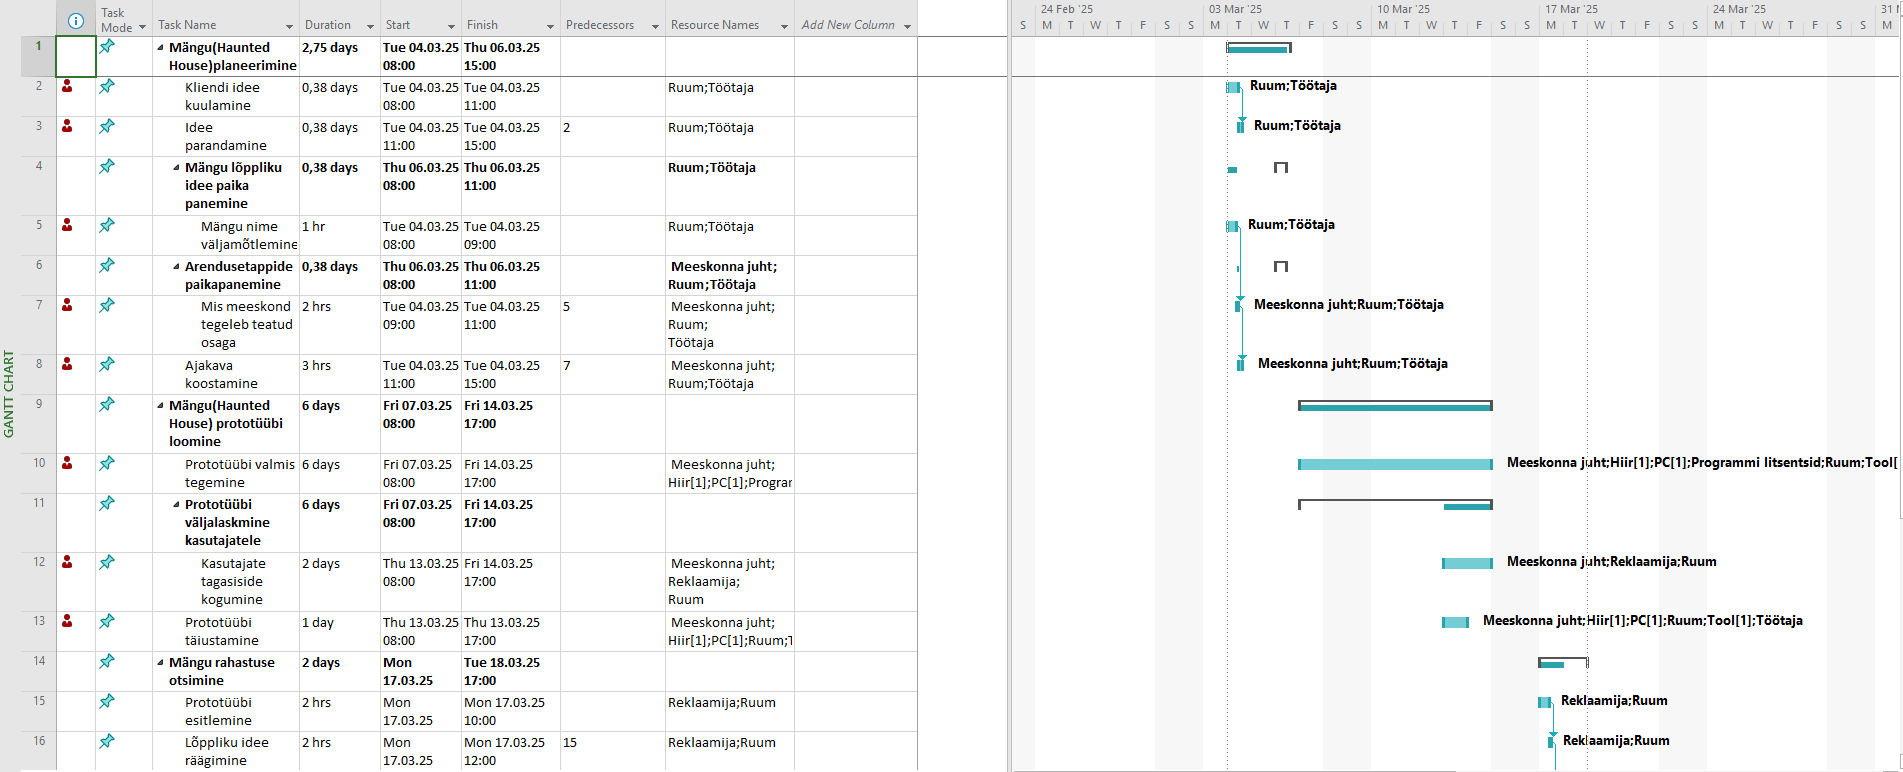
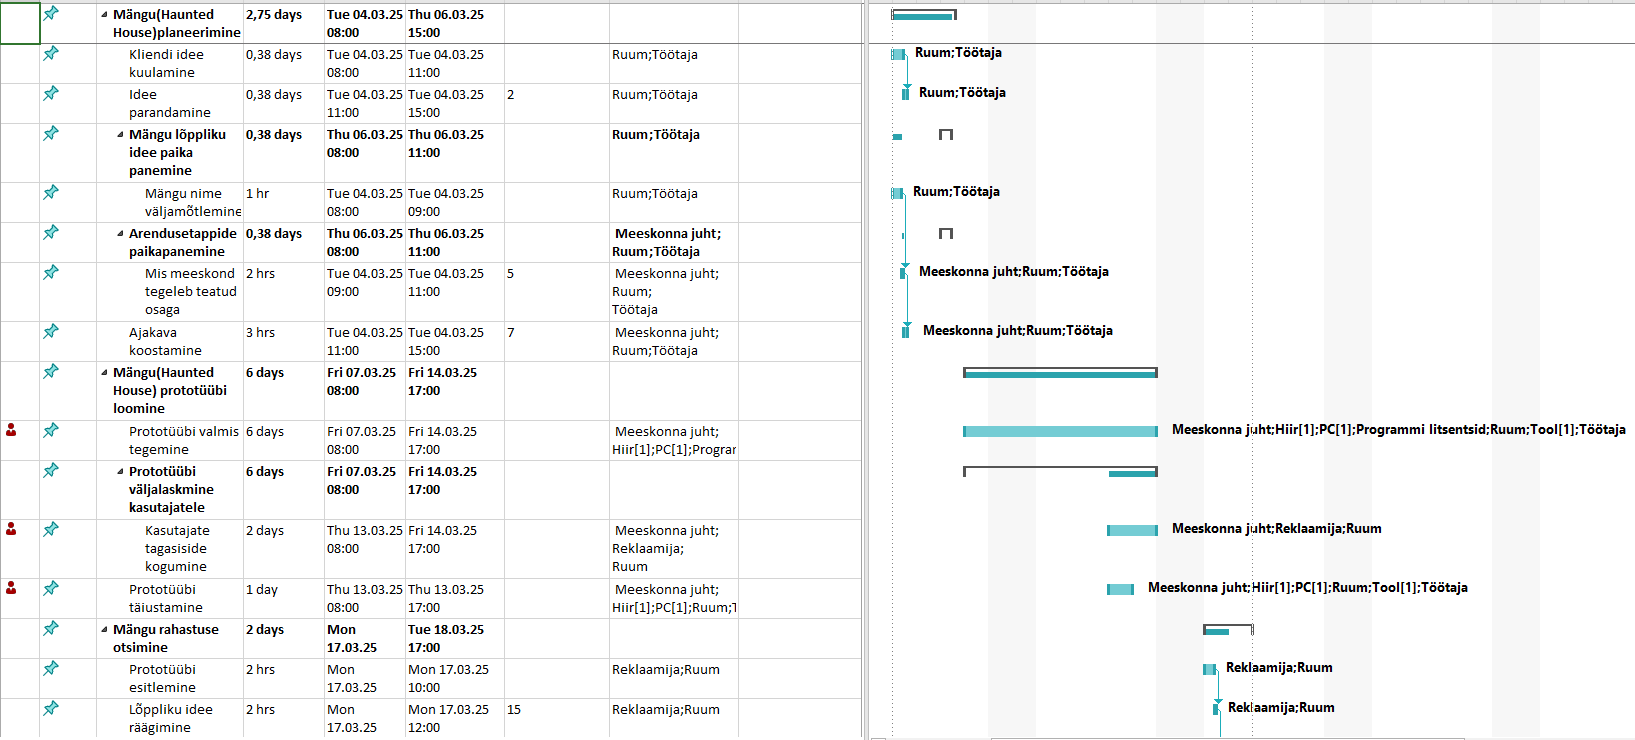
e
e

diff --git a/MSProject/MS/Diagramm.html b/MSProject/MS/Diagramm.html
@@ -8,6 +8,6 @@
 </head>
 <body>
     <img src="diagramm1.PNG">
-    <img src="diagramm2.PNG">
+    <img src="diagramm2.PNG" height="250" width="250">
 </body>
 </html>
